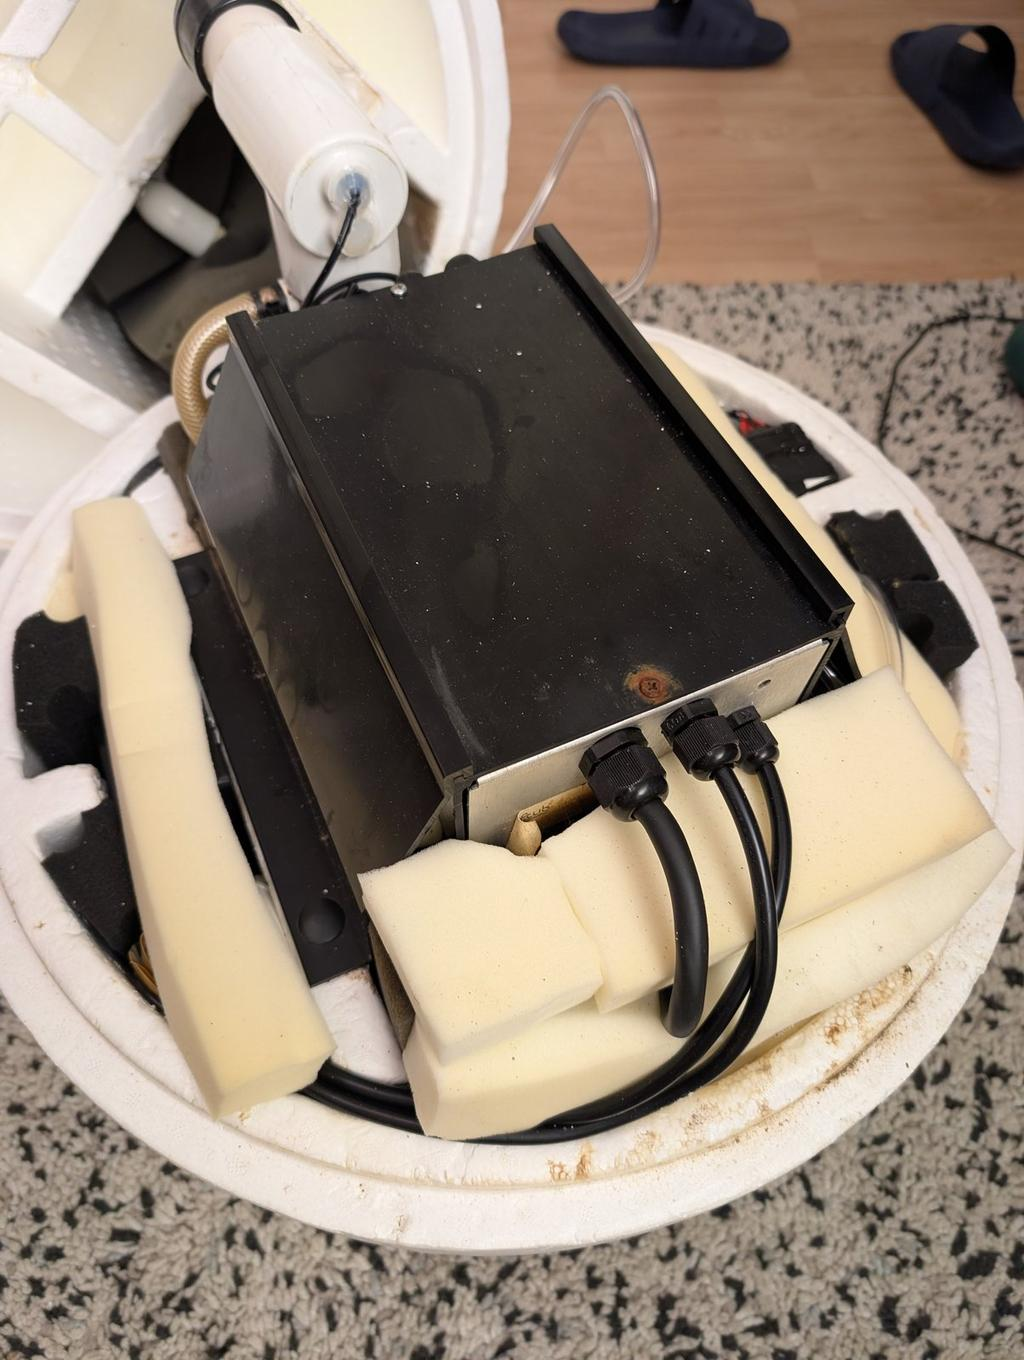
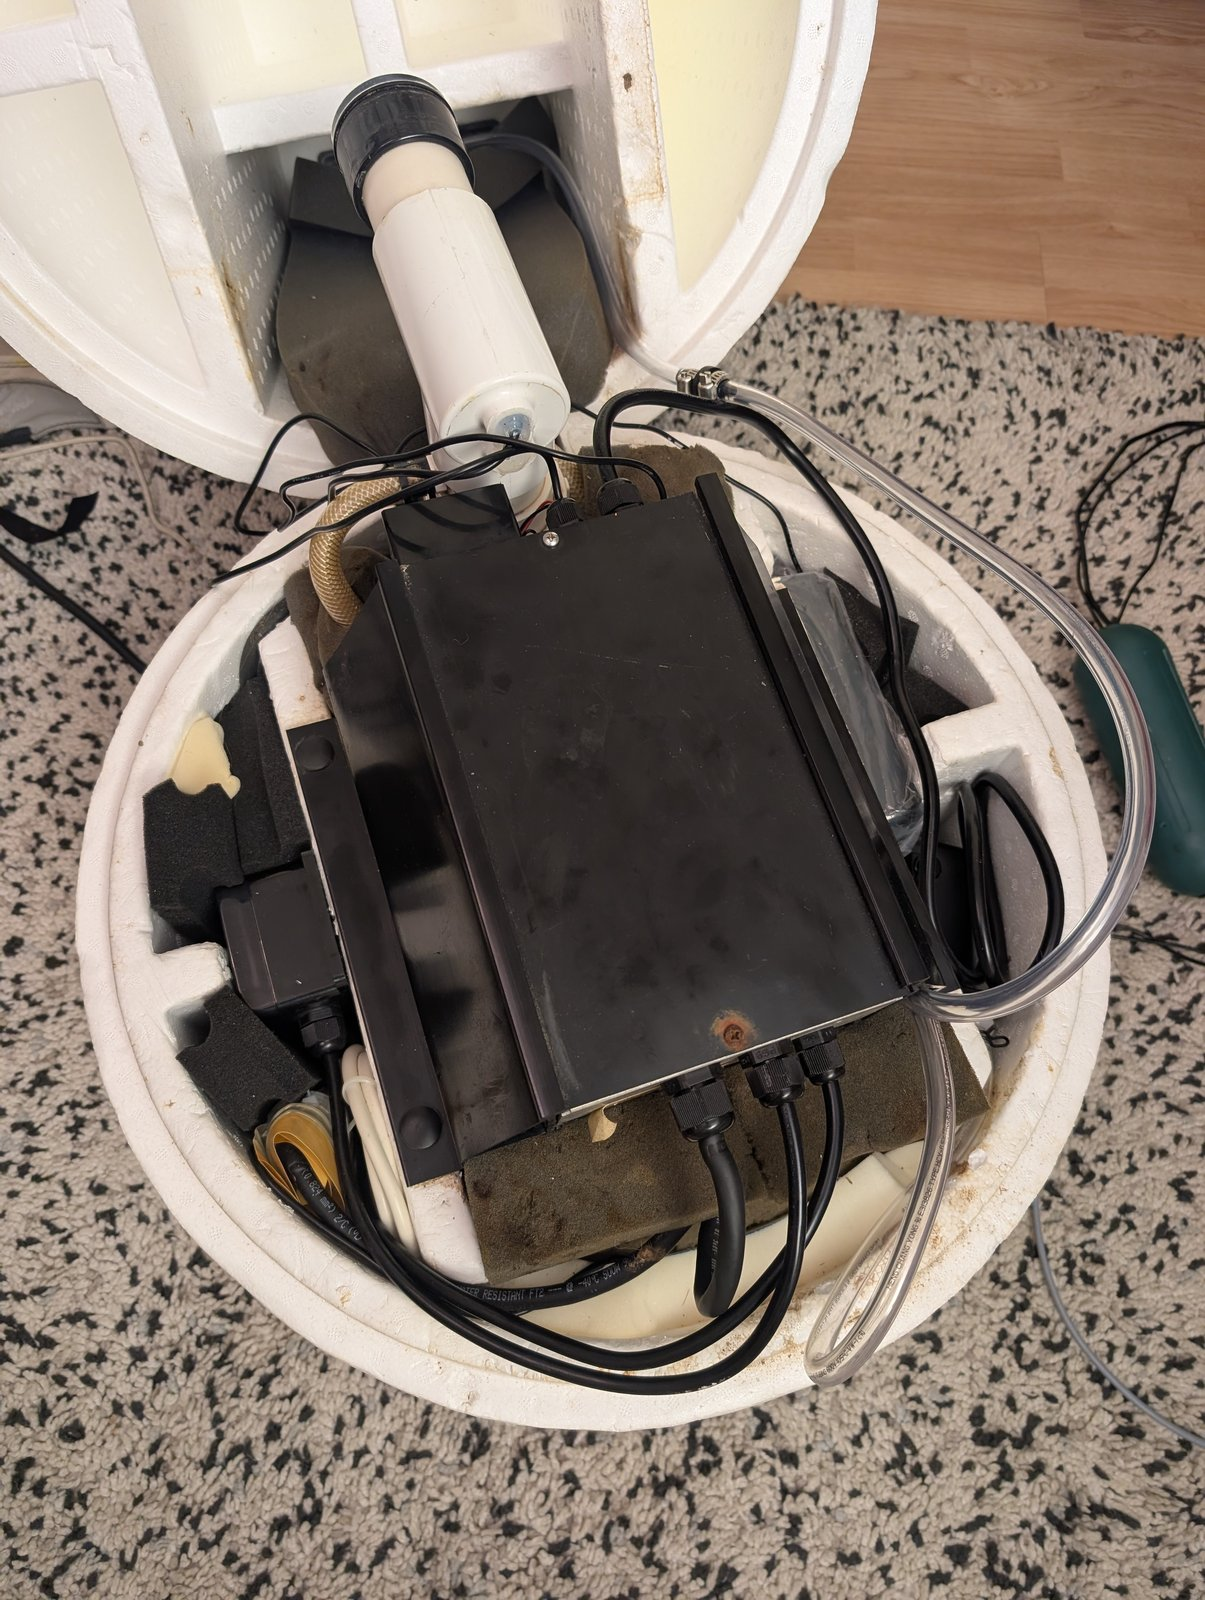
Replace Final Assembly photos with real shots, fix duplicate image
The old 19/23 pair were byte-identical (same photo reused under two
filenames). New photos are distinct: full housing overview, ozone
tubing/Venturi fitting, and terminal block wiring detail.

diff --git a/docs/GUIDE.md b/docs/GUIDE.md
@@ -115,11 +115,11 @@ Install on the left side of the motor housing, positioned so all downstream comp
 
 ## 7. Final Assembly
 
-![TH Elite with terminal connections visible](../images/20-ozone-tubing-venturi.jpg)
+![Final assembly overview — ozonator, terminal wiring, and DC power supply packed into the motor housing](../images/19-housing-reassembly.jpg)
 
-![New components packed into motor housing with foam padding](../images/19-housing-reassembly.jpg)
+![Ozone tubing and Venturi fitting, cable glands at the base](../images/20-ozone-tubing-venturi.jpg)
 
-![Reassembly top view — components, cable glands, ozone tubing](../images/23-reassembly-top-view.jpg)
+![Terminal block wiring — brown/blue/green-yellow leads and DC barrel connectors for the Isonic valve supply](../images/23-reassembly-top-view.jpg)
 
 - Route all 230V wiring and all low-voltage signal/sensor wiring with as much physical separation as the enclosure allows.
 - Every junction inside the housing goes through a sealed gel-box connector (Wago) — condensation inside this enclosure is routine, not an edge case.
